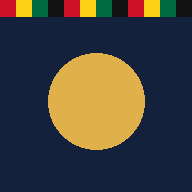
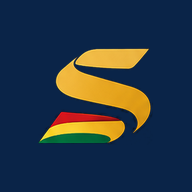
branded

Changed region(s): [[0.1875, 0.25, 0.8125, 0.7812], [0.0, 0.0, 1.0, 0.0938], [0.3125, 0.3438, 0.3438, 0.375]]

diff --git a/public/index.html b/public/index.html
@@ -7,6 +7,7 @@
 <link rel="manifest" href="manifest.webmanifest">
 <meta name="theme-color" content="#14213d">
 <link rel="apple-touch-icon" href="icon-192.png">
+<link rel="icon" type="image/png" href="icon-192.png">
 <link rel="preconnect" href="https://fonts.googleapis.com">
 <link rel="stylesheet" href="https://fonts.googleapis.com/css2?family=Schibsted+Grotesk:wght@400;600;800&display=swap">
 <style>
@@ -71,7 +72,7 @@ input,select,textarea{display:block;width:100%;margin-top:4px;padding:11px;borde
 <div id="app"></div><div id="sheet"></div><div id="lock" hidden></div>
 <script type="module">
 import{initializeApp}from"https://www.gstatic.com/firebasejs/10.14.1/firebase-app.js";
-import{getAuth,onAuthStateChanged,signInWithEmailAndPassword,createUserWithEmailAndPassword,signOut,sendPasswordResetEmail}from"https://www.gstatic.com/firebasejs/10.14.1/firebase-auth.js";
+import{getAuth,onAuthStateChanged,signInWithEmailAndPassword,createUserWithEmailAndPassword,signOut,sendPasswordResetEmail,deleteUser}from"https://www.gstatic.com/firebasejs/10.14.1/firebase-auth.js";
 import{getFirestore,doc,getDoc,setDoc,deleteDoc}from"https://www.gstatic.com/firebasejs/10.14.1/firebase-firestore.js";
 import{CFG}from"./firebase-config.js";
 if("serviceWorker"in navigator)navigator.serviceWorker.register("sw.js").catch(()=>{});
@@ -108,10 +109,13 @@ else if(nb)put("adm_c",pk(r));else if(dirty)push();return true}
 async function mergeC(p){try{const b=JSON.parse(get("adm_c")),k=await derive(p,dec(b.s)),R=JSON.parse(new TextDecoder().decode(await crypto.subtle.decrypt({name:"AES-GCM",iv:dec(b.iv)},k,dec(b.d))));
 for(const f of["acc","tx","loans"]){const ids=new Set(D[f].map(x=>x.id));(R[f]||[]).forEach(x=>{if(!ids.has(x.id)&&!(D.gone||[]).includes(x.id))D[f].push(x)})}
 put("adm_c","");await save()}catch(e){put("adm_c","");await save()}}
-function authView(m){$("#lock").innerHTML=`<div class="lk"><div class="kt"></div><h1>Sika</h1><p style="font-size:12px;opacity:.7;margin:0">by Adombra</p><p>${am==="in"?"Log in to open your records":"Create your account"}</p><input id="em" type="email" autocomplete="email" placeholder="Email"><input id="pw" type="password" autocomplete="${am==="in"?"current-password":"new-password"}" placeholder="Password (6+ characters)" style="margin-top:8px"><p class="err">${esc(m||"")}</p><button class="btn" style="background:var(--gold);color:#14213d" data-act="auth">${am==="in"?"Log in":"Create account"}</button><button class="lnk" data-act="amode">${am==="in"?"New here? Create an account":"Have an account? Log in"}</button>${am==="in"?'<br><button class="lnk" data-act="forgot">Forgot password</button>':""}</div>`;$("#lock").hidden=false}
+function authView(m){$("#lock").innerHTML=`<div class="lk">${MARK}<h1>Sika</h1><p style="font-size:12px;opacity:.7;margin:0">by Adombra</p><p>${am==="in"?"Log in to open your records":"Create your account"}</p><input id="em" type="email" autocomplete="email" placeholder="Email"><input id="pw" type="password" autocomplete="${am==="in"?"current-password":"new-password"}" placeholder="Password (6+ characters)" style="margin-top:8px"><p class="err">${esc(m||"")}</p><button class="btn" style="background:var(--gold);color:#14213d" data-act="auth">${am==="in"?"Log in":"Create account"}</button><button class="lnk" data-act="amode">${am==="in"?"New here? Create an account":"Have an account? Log in"}</button>${am==="in"?'<br><button class="lnk" data-act="forgot">Forgot password</button>':""}</div>`;$("#lock").hidden=false}
+const MARK='<img src="mark-gold.png" alt="" width="84" style="display:block;margin:0 auto 14px">';
+const NB=window.Capacitor&&Capacitor.isNativePlatform&&Capacitor.isNativePlatform()?Capacitor.Plugins.NativeBiometric:null;let PINM=null;const BS="sika.adombra";
+async function bioUnlock(){if(!NB||get("adm_bio")!=="1")return;try{await NB.verifyIdentity({reason:"Unlock Sika",title:"Sika"});const c=await NB.getCredentials({server:BS});await tryUnlock(c.password);if(!D)lockView()}catch(e){}}
 /* ---------- lock screen ---------- */
 function lockView(){const t={unlock:"Enter your PIN",setup1:"Create a 6-digit PIN to protect your records",setup2:"Enter the PIN again to confirm",change1:"Choose a new 6-digit PIN",change2:"Enter the new PIN again"}[mode];
-$("#lock").innerHTML=`<div class="lk"><div class="kt"></div><h1>Sika</h1><p style="font-size:12px;opacity:.7;margin:0">by Adombra</p><p>${t}</p><div class="dots">${[0,1,2,3,4,5].map(i=>`<i class="${i<buf.length?"on":""}"></i>`).join("")}</div><p class="err">${esc(msg)}</p><div class="pad">${[1,2,3,4,5,6,7,8,9,"",0,"⌫"].map(k=>k===""?"<span></span>":`<button data-k="${k}">${k}</button>`).join("")}</div>${mode==="change1"||mode==="change2"?'<button class="lnk" data-act="cancelpin">Cancel</button>':""}${mode.startsWith("setup")?'<p style="font-size:12px;opacity:.7;margin-top:18px">Your records are encrypted with this PIN. It cannot be recovered if you forget it.</p>':""}</div>`;
+$("#lock").innerHTML=`<div class="lk">${MARK}<h1>Sika</h1><p style="font-size:12px;opacity:.7;margin:0">by Adombra</p><p>${t}</p><div class="dots">${[0,1,2,3,4,5].map(i=>`<i class="${i<buf.length?"on":""}"></i>`).join("")}</div><p class="err">${esc(msg)}</p><div class="pad">${[1,2,3,4,5,6,7,8,9,"",0,"⌫"].map(k=>k===""?"<span></span>":`<button data-k="${k}">${k}</button>`).join("")}</div>${NB&&mode==="unlock"&&get("adm_bio")==="1"?'<button class="lnk" data-act="bioin">Use fingerprint</button>':""}${mode==="change1"||mode==="change2"?'<button class="lnk" data-act="cancelpin">Cancel</button>':""}${mode.startsWith("setup")?'<p style="font-size:12px;opacity:.7;margin-top:18px">Your records are encrypted with this PIN. It cannot be recovered if you forget it.</p>':""}</div>`;
 $("#lock").hidden=false}
 async function key(k){if(k==="⌫")buf=buf.slice(0,-1);else if(buf.length<6)buf+=k;msg="";if(buf.length<6)return lockView();
 const p=buf;buf="";lockView();
@@ -122,11 +126,11 @@ else await commitPin(p);
 if(!$("#lock").hidden)lockView()}
 async function tryUnlock(p){await reconcile();const f=+get("adm_f")||0,w=(+get("adm_t")||0)-Date.now();
 if(w>0){msg="Too many tries. Wait "+Math.ceil(w/1000)+" seconds.";return}
-try{const b=JSON.parse(get(LS)),s=dec(b.s),k=await derive(p,s);const pt=await crypto.subtle.decrypt({name:"AES-GCM",iv:dec(b.iv)},k,dec(b.d));D=JSON.parse(new TextDecoder().decode(pt));if(!D.v){D.acc.forEach(a=>a.open=Math.round(a.open*100));D.tx.forEach(t=>t.amt=Math.round(t.amt*100));D.loans.forEach(l=>{l.p=Math.round(l.p*100);l.paid=Math.round(l.paid*100)});D.budget=Math.round((D.budget||0)*100);D.v=2}KEY=k;SALT=s;put("adm_f","0");if(get("adm_c"))await mergeC(p);openApp()}
+try{const b=JSON.parse(get(LS)),s=dec(b.s),k=await derive(p,s);const pt=await crypto.subtle.decrypt({name:"AES-GCM",iv:dec(b.iv)},k,dec(b.d));D=JSON.parse(new TextDecoder().decode(pt));if(!D.v){D.acc.forEach(a=>a.open=Math.round(a.open*100));D.tx.forEach(t=>t.amt=Math.round(t.amt*100));D.loans.forEach(l=>{l.p=Math.round(l.p*100);l.paid=Math.round(l.paid*100)});D.budget=Math.round((D.budget||0)*100);D.v=2}KEY=k;SALT=s;put("adm_f","0");PINM=p;if(get("adm_c"))await mergeC(p);openApp()}
 catch(e){const n=f+1;put("adm_f",String(n));if(n>=3)put("adm_t",String(Date.now()+Math.min(300,10*2**(n-3))*1000));msg="Wrong PIN."}}
-async function commitPin(p){SALT=crypto.getRandomValues(new Uint8Array(16));KEY=await derive(p,SALT);if(!D)D=defaults();await save();openApp()}
+async function commitPin(p){PINM=p;if(NB&&get("adm_bio")==="1")try{await NB.setCredentials({username:"sika",password:p,server:BS})}catch(e){}SALT=crypto.getRandomValues(new Uint8Array(16));KEY=await derive(p,SALT);if(!D)D=defaults();await save();openApp()}
 function openApp(){mode="unlock";buf="";tmp="";msg="";$("#lock").hidden=true;render()}
-function lockNow(){D=null;KEY=null;$("#sheet").innerHTML="";$("#app").innerHTML="";mode="unlock";buf="";lockView()}
+function lockNow(){D=null;KEY=null;PINM=null;$("#sheet").innerHTML="";$("#app").innerHTML="";mode="unlock";buf="";lockView();bioUnlock()}
 document.addEventListener("visibilitychange",()=>{if(document.hidden)hid=Date.now();else if(D&&Date.now()-hid>D.lock*1000)lockNow()});
 
 /* ---------- numbers ---------- */
@@ -163,10 +167,10 @@ function set(){const c=calc();
 return `<h3 style="margin-top:4px">Accounts</h3>${c.a.map(a=>`<div class="row"><div><b>${esc(a.name)}</b><small>${{bank:"Bank",momo:"Mobile money",cash:"Cash",save:"Savings / Susu"}[a.type]}</small></div><b>${fmt(a.bal)}</b></div>`).join("")}
 <div class="box" style="margin-top:12px"><b>Add an account</b><div class="two"><label>Name<input id="na" placeholder="e.g. GCB savings"></label><label>Type<select id="nt"><option value="bank">Bank</option><option value="momo">Mobile money</option><option value="cash">Cash</option><option value="save">Savings / Susu</option></select></label></div><label>Balance now (GH₵)<input id="no" inputmode="decimal" placeholder="0.00"></label><p class="err" id="ne"></p><button class="btn" data-act="addacc">Add account</button></div>
 <h3>Budget</h3><label>Monthly spending limit (GH₵)<input id="bd" inputmode="decimal" placeholder="Leave empty for none" value="${D.budget?D.budget/100:""}"></label><h3>Account and sync</h3><div class="row"><span>${esc(U?U.email:"")}</span><button class="chip" data-act="out">Sign out</button></div><p id="cs" style="color:var(--mut);font-size:13px">Cloud sync is on.</p><h3>Security</h3><label>Lock automatically after leaving the app for<select id="al">${[[0,"Immediately"],[60,"1 minute"],[300,"5 minutes"]].map(([v,n])=>`<option value="${v}" ${D.lock===v?"selected":""}>${n}</option>`).join("")}</select></label>
-<div class="two" style="margin-top:12px"><button class="btn gh" data-act="chpin">Change PIN</button><button class="btn" data-act="lock">Lock now</button></div>
+${NB?`<div class="row"><span>Fingerprint unlock</span><button class="chip" data-act="bio">${get("adm_bio")==="1"?"Turn off":"Turn on"}</button></div>`:""}<div class="two" style="margin-top:12px"><button class="btn gh" data-act="chpin">Change PIN</button><button class="btn" data-act="lock">Lock now</button></div>
 <p style="color:var(--mut);font-size:12px">Records are encrypted on this phone with your PIN. Cloud sync and optional SMS reading arrive in the next phase.</p>
 <h3>Back up and restore</h3><p style="color:var(--mut);font-size:13px;margin:0 0 8px">A backup is a block of locked text. Only your PIN opens it, so it is safe to keep in WhatsApp or email.</p><button class="btn" data-act="bk">Create backup</button><textarea id="bko" rows="4" hidden readonly></textarea><label>Restore from a backup<textarea id="rso" rows="3" placeholder="Paste a backup here"></textarea></label><button class="btn gh" style="margin-top:8px" data-act="rs">Restore</button><p class="err" id="bkm" style="color:var(--mut)"></p>
-<button class="btn ${wp?"dn":"gh"}" style="margin-top:8px" data-act="wipe">${wp?"Tap again to erase everything":"Erase all data"}</button>`}
+<button class="btn ${wp?"dn":"gh"}" style="margin-top:8px" data-act="wipe">${wp?"Tap again to delete your account and everything":"Delete account and all data"}</button>`}
 function render(){if(!D)return;const v={home,act,loans,biz,set}[tab]();$("#app").innerHTML=`<main>${v}</main><nav>${[["home","Home"],["act","Activity"],["loans","Loans"],["biz","Business"],["set","Settings"]].map(([k,n])=>`<button data-tab="${k}" class="${tab===k?"on":""}">${n}</button>`).join("")}</nav><button class="fab" data-act="new" aria-label="Add entry">+</button>`}
 
 /* ---------- entry sheet ---------- */
@@ -219,16 +223,18 @@ else if(a==="auth"){const e=$("#em").value.trim(),p=$("#pw").value;try{if(am==="
 else if(a==="amode"){am=am==="in"?"up":"in";authView()}
 else if(a==="forgot"){const e=$("#em").value.trim();if(!e)return authView("Type your email first.");try{await sendPasswordResetEmail(auth,e)}catch(x){}authView("If that email has an account, a reset link is on its way.")}
 else if(a==="out"){await push();if(get("adm_d")==="1"){cs("Some changes have not synced yet. Connect to the internet, then sign out.");return}try{localStorage.clear()}catch(x){}await signOut(auth)}
+else if(a==="bioin")bioUnlock();
+else if(a==="bio"){let m="";if(get("adm_bio")==="1"){try{await NB.deleteCredentials({server:BS})}catch(x){}put("adm_bio","0")}else{try{const r=await NB.isAvailable();if(!r.isAvailable)throw 0;await NB.verifyIdentity({reason:"Turn on fingerprint unlock",title:"Sika"});await NB.setCredentials({username:"sika",password:PINM,server:BS});put("adm_bio","1")}catch(x){m="Fingerprint could not be turned on. Check that one is set up on this phone."}}render();if(m)cs(m)}
 else if(a==="lock")lockNow();
 else if(a==="chpin"){mode="change1";buf="";tmp="";msg="";lockView()}
 else if(a==="cancelpin"){mode="unlock";buf="";tmp="";$("#lock").hidden=true}
-else if(a==="wipe"){if(!wp){wp=true;render()}else{try{await deleteDoc(rf())}catch(x){}try{localStorage.clear()}catch(x){}D=null;KEY=null;wp=false;$("#app").innerHTML="";mode="setup1";buf="";lockView()}}
+else if(a==="wipe"){if(!wp){wp=true;render()}else{try{await deleteDoc(rf())}catch(x){}try{await deleteUser(auth.currentUser)}catch(x){}try{localStorage.clear()}catch(x){}D=null;KEY=null;wp=false;$("#app").innerHTML="";mode="setup1";buf="";if(auth.currentUser)lockView()}}
 });
 document.addEventListener("change",async e=>{if(e.target.id==="bd"&&D){D.budget=toP(e.target.value);await save()}if(e.target.id==="al"&&D){D.lock=+e.target.value;await save()}});
 addEventListener("online",push);
 onAuthStateChanged(auth,async u=>{U=u;if(!u){D=null;KEY=null;$("#app").innerHTML="";$("#sheet").innerHTML="";return authView()}
 const ok=await reconcile();if(ok===false&&!get(LS))return authView("Connect to the internet once to load your records, then try again.");
-mode=get(LS)?"unlock":"setup1";buf="";lockView()});
+mode=get(LS)?"unlock":"setup1";buf="";lockView();if(mode==="unlock")bioUnlock()});
 </script>
 </body>
 </html>

diff --git a/README.md b/README.md
@@ -25,3 +25,9 @@ Old preview: Settings > Create backup. New app: log in, set a PIN, Settings > Re
 ## Good to know
 - Cloud holds only locked text. Your PIN never leaves the phone, so a forgotten PIN cannot be recovered by anyone.
 - Changing the PIN on one device means the others need the new PIN after their next sync.
+
+## Android extras (after `npx cap add android`)
+1. `android/app/src/main/AndroidManifest.xml`: add `<uses-permission android:name="android.permission.USE_BIOMETRIC" />` and set `android:allowBackup="false"` on the `<application>` tag.
+2. Hide Sika from screenshots and the recent-apps preview: in `MainActivity.java`, inside `onCreate`, add `getWindow().setFlags(android.view.WindowManager.LayoutParams.FLAG_SECURE, android.view.WindowManager.LayoutParams.FLAG_SECURE);`
+3. App icon: replace the launcher icons in `android/app/src/main/res/mipmap-*` (Android Studio: right-click `res` > New > Image Asset).
+4. Release build: Build > Generate Signed Bundle (AAB). Keep the signing key safe, since losing it means you cannot update the app.

diff --git a/brand/README.md b/brand/README.md
@@ -1,0 +1,9 @@
+# Sika brand files (final, cropped from the chosen design)
+final/icon-1024.png, icon-512.png, icon-192.png: app icon (navy, full square).
+final/icon-white-1024.png: light version.
+final/adaptive-foreground-432.png + adaptive-background-432.png: Android adaptive icon layers
+  (Android Studio: right-click res > New > Image Asset).
+final/notification-96-white.png, favicon-32.png.
+final/lockup-*.png: horizontal and stacked logos on light and dark.
+Note: these come from a picture, not a vector file. For print, signage or a sharper store listing,
+ask the original designer or tool for a high-resolution or SVG export.
